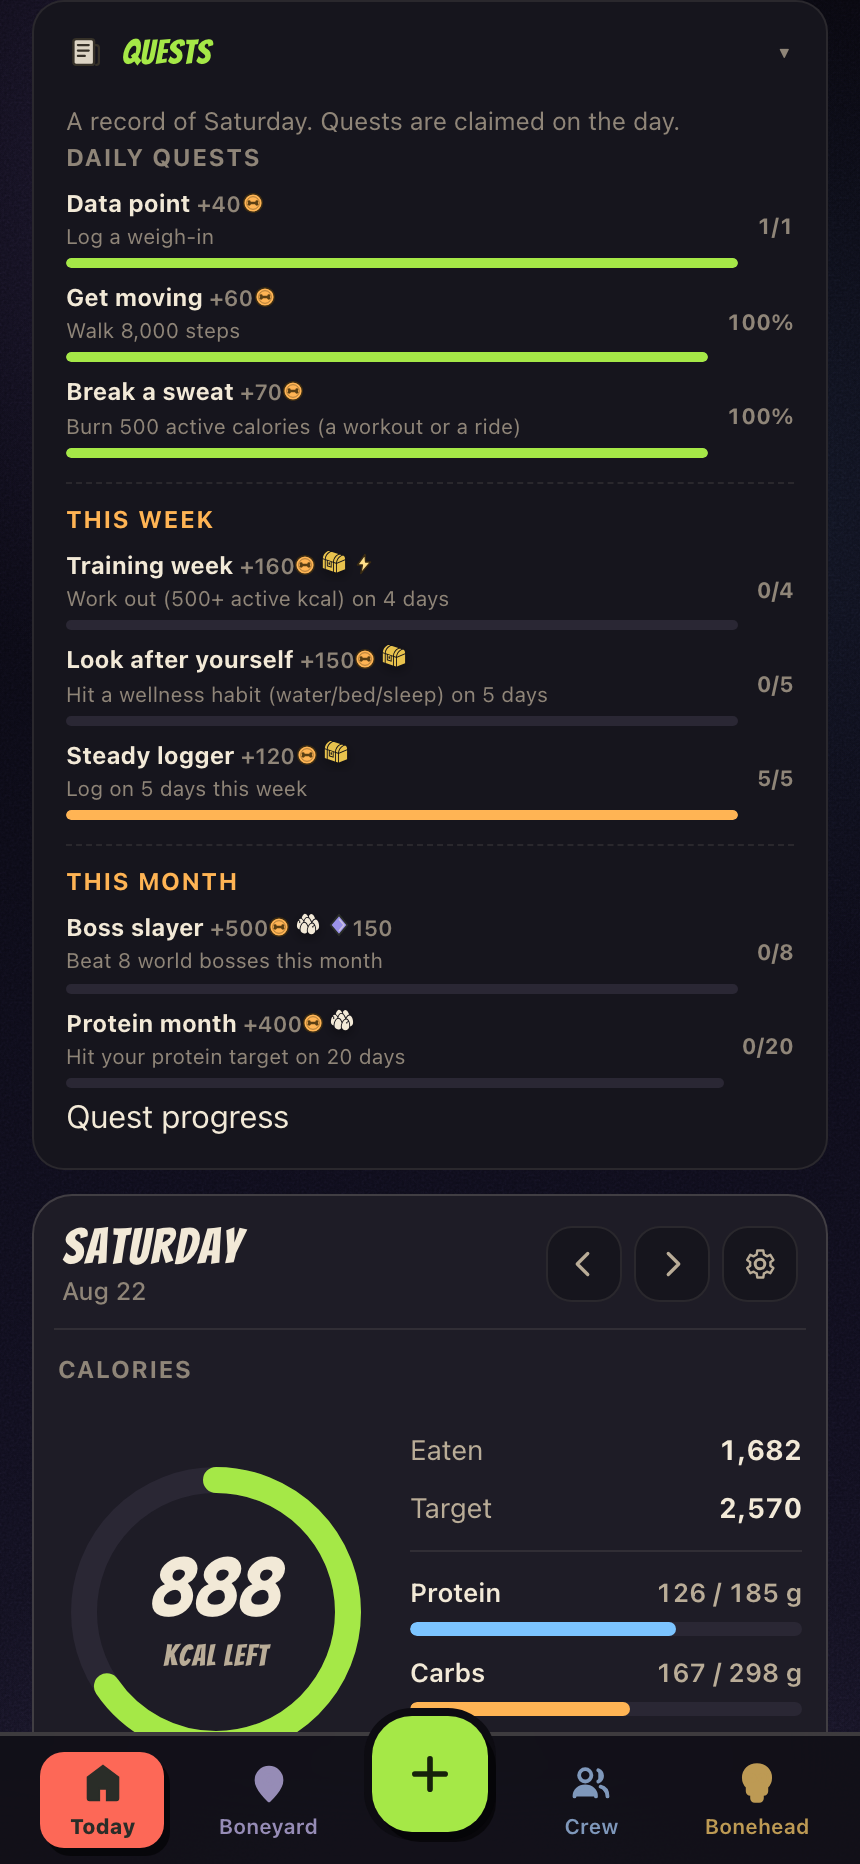
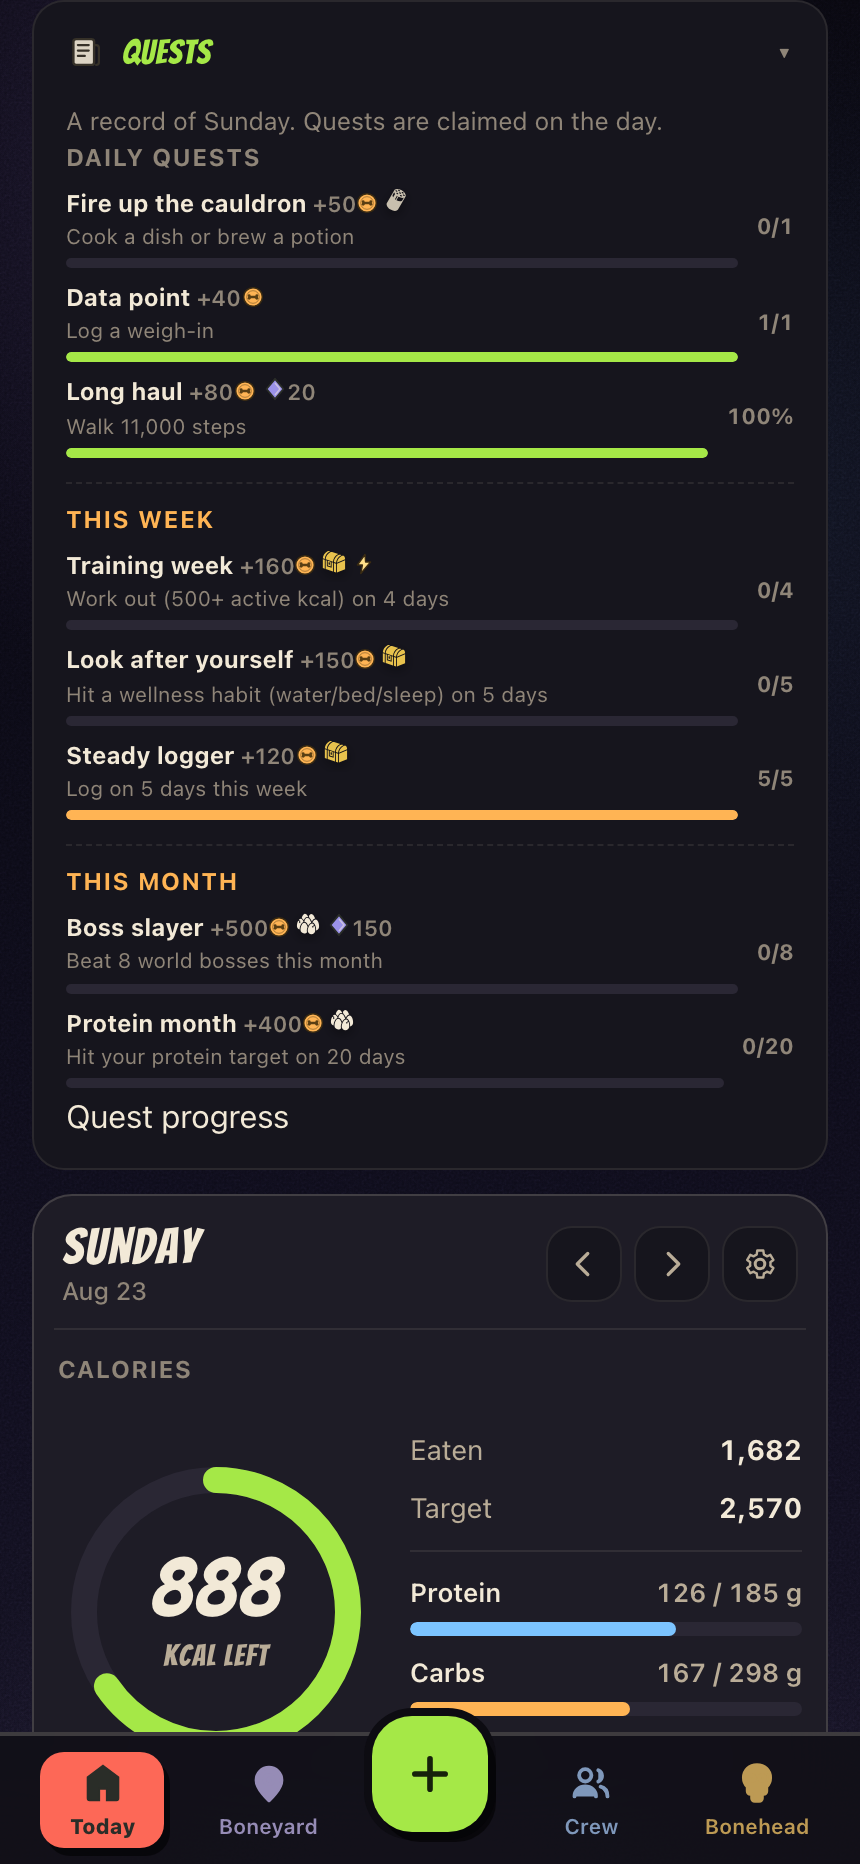
island bleed: the composition is right now, and it still does not ship
Finishes what #142 left contradictory. There I said the rect and the render
disagreed and I could not tell which was wrong. The rect was right and I was
measuring the wrong elements.

I pinned .hero-top and .hero-char against the bleed, measured those two, and
concluded the hero was unchanged. .gw-row is a third absolute child and it rode
the box up 73px, taking Gwart's plaque and the talk box with it: gw-row 123 -> 50,
the wizard art to -6.7, i.e. off the top of the screen. The picture was showing me
that; my probe was reading two elements that happened to be fine.

Found by diffing EVERY element's top in the screen rather than the three I
suspected. That is the lesson worth keeping: when a render and a measurement
disagree, widen the measurement instead of re-reading the render.

Now pinned, and the same full diff shows the only movers are the four art layers,
hero-card / hero-scene / hero-backdrop / hero-fade, all 73 -> 0. Chips, Gwart, the
figure, the pets and the doors all hold.

IT STILL DOES NOT SHIP. Un-gated, two suites go red and both are metrics whose
PREMISE this change invalidates rather than defects it introduces:

  today-peek ORDER   measures the chips against the SCENE's top edge. That edge is
                     now deliberately behind the island, so they read 83.0px down
                     when they sit 10px below the VISIBLE top. The reference wants
                     to be the safe-area line.
[…]

diff --git a/app.css b/app.css
@@ -1340,7 +1340,13 @@ body::before {
    than being declared: at 393 that is 185 and 176, which is the mockup's split.
    The row is where the FLOW is; .gw-today keeps its own float animation. */
 .gw-row {
-  position: absolute; left: 12px; right: 12px; top: var(--gw-top); z-index: 5;
+  /* pinned against the island bleed, same as .hero-top and .hero-char. This was
+     the one I missed: the first pass pinned two absolute children, measured those
+     two, and called it unchanged, while .gw-row rode the box up 73px and took
+     Gwart and the talk box under the island with it (measured: gw-row 123 -> 50,
+     the wizard art to -6.7, i.e. off the top of the screen). The rect I measured
+     and the render I looked at disagreed because they were different elements. */
+  position: absolute; left: 12px; right: 12px; top: calc(var(--gw-top) + var(--bleed, 0px)); z-index: 5;
   display: flex; align-items: flex-start; gap: 8px; pointer-events: none;
 }
 .gw-today {
@@ -1724,7 +1730,31 @@ body::before {
    ORDER row measures them 83.0px below the scene's top edge and reds on it. The
    wordmark rows change meaning too, because the mark now composites over olive art
    instead of page navy. Those are design consequences for Tom to weigh, not
-   defects to silence, so the guards stay strict and this stays behind a flag. */
+   defects to silence, so the guards stay strict and this stays behind a flag.
+
+   UPDATED 2026-08-24. The composition is now CORRECT and the render agrees with
+   the numbers. The earlier disagreement was my own error: I pinned .hero-top and
+   .hero-char, measured those two, and called the hero unchanged, while .gw-row
+   rode the box up and took Gwart and the talk box under the island (measured:
+   gw-row 123 -> 50, the wizard art to -6.7, off the top of the screen). Three
+   absolute children, not two. Pinned, and a full element diff now shows the only
+   things that move are the four art layers: hero-card, hero-scene, hero-backdrop,
+   hero-fade, all 73 -> 0.
+
+   IT STILL DOES NOT SHIP, and this is the honest reason. Un-gated, two suites go
+   red, and BOTH are metrics whose premise this change invalidates rather than
+   defects it introduces:
+     today-peek ORDER   "the currencies sit at the top of the hero" measures them
+                        against the SCENE's top edge. That edge is now behind the
+                        island, so the chips read 83.0px down when they are 10px
+                        below the visible top. The reference wants to be the
+                        safe-area line, not the box.
+     wordmark REST      "nothing of the mark is on screen at rest" is a luminance
+                        threshold over a band that used to be page navy and is now
+                        bright olive art, so the ART trips the ink test.
+   Re-deriving two guards' reference points to make my own change pass is the
+   exact move this repo forbids, so it waits for someone to do that deliberately,
+   on its own, with prove-reds. */
 .fx-island .hero-scene {
   --bleed: calc(var(--sat) + 14px);
   margin-top: calc(-1 * var(--bleed));
